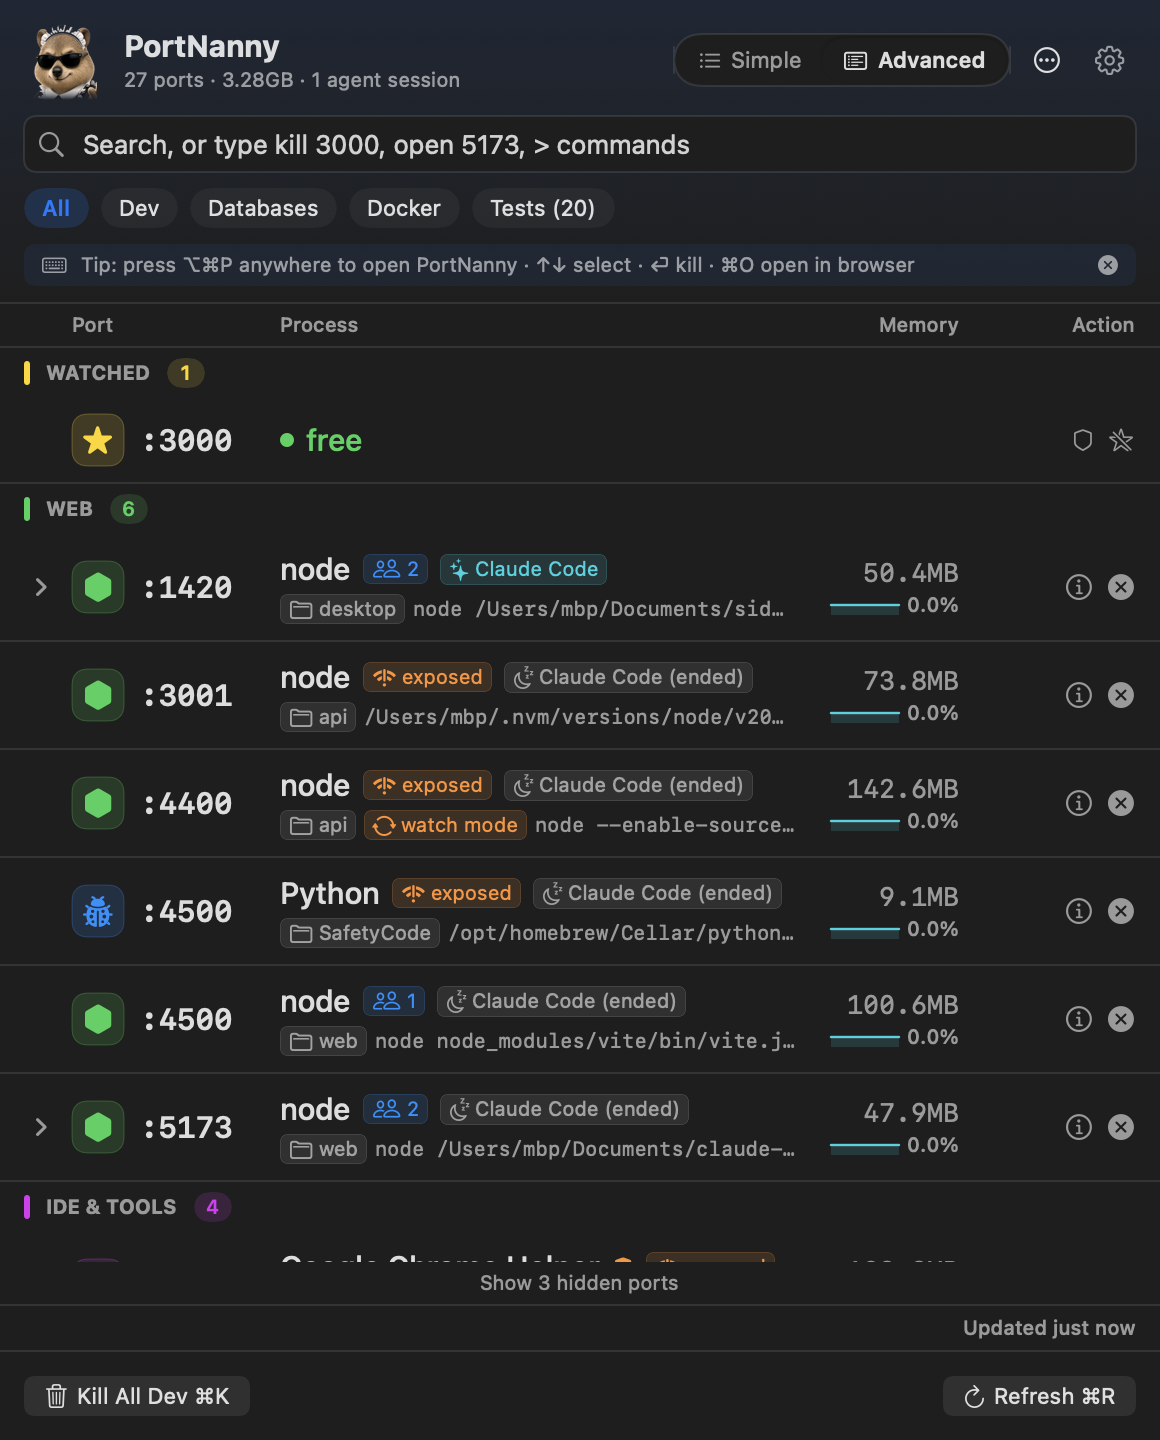
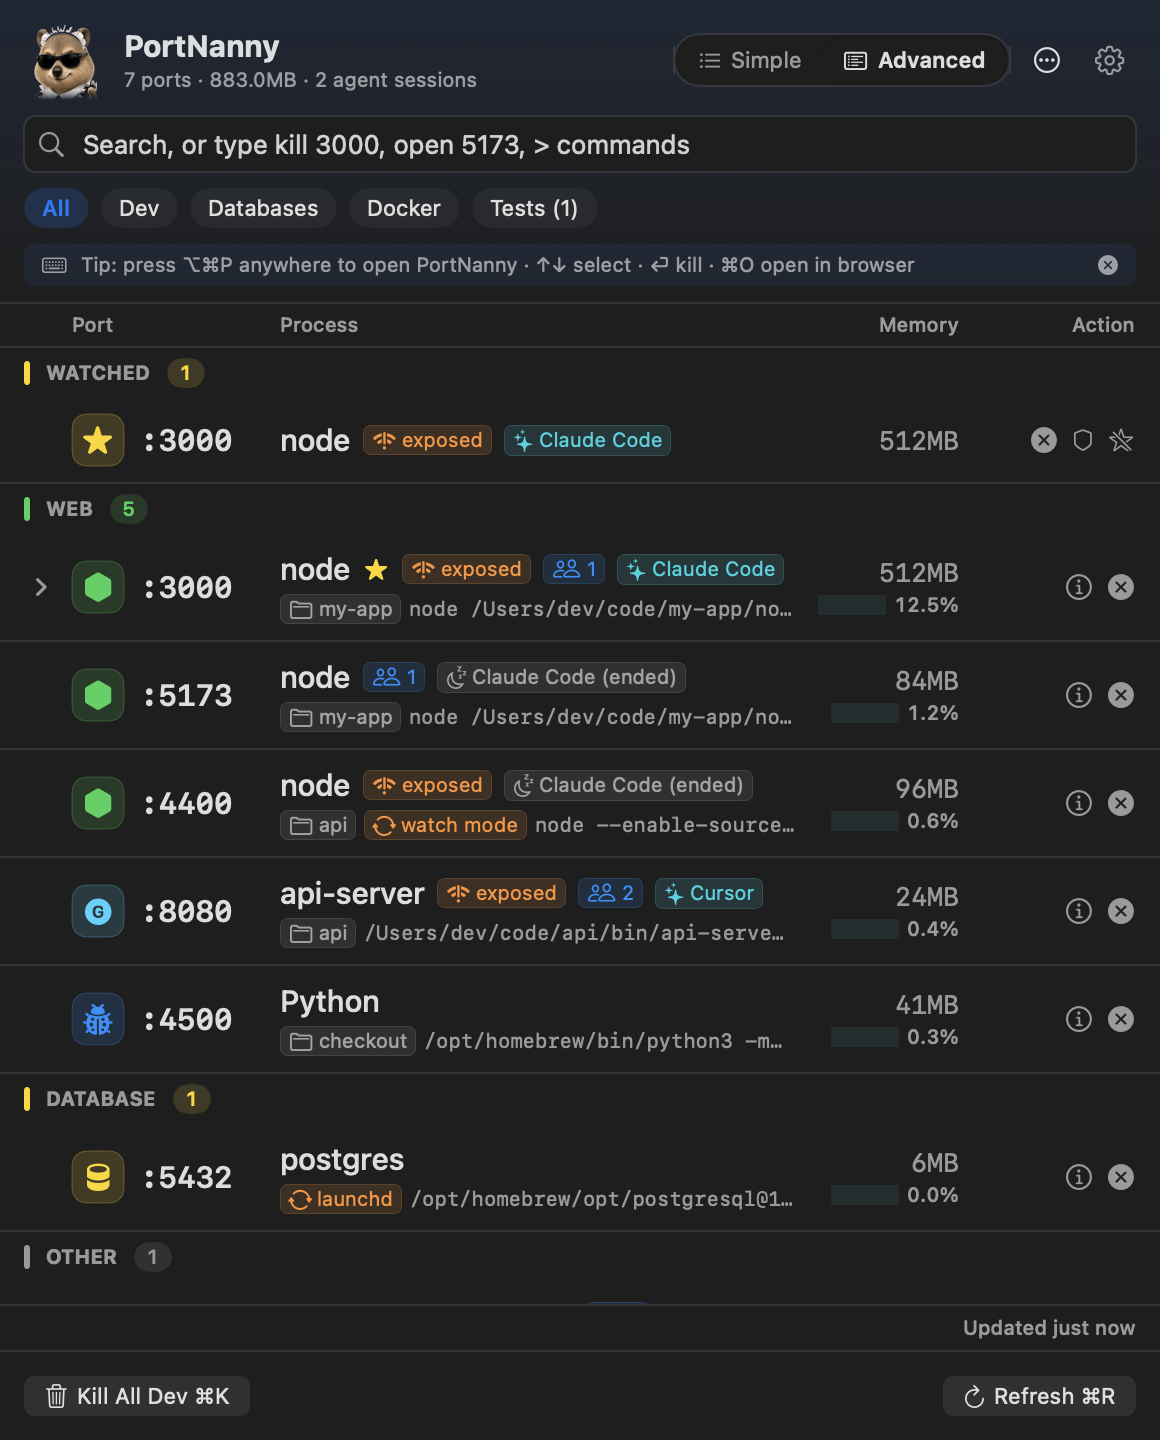
README images come from scripted data, never from the rendering Mac
The popover screenshots, the palette shot, the Workbench capture, and
the menu bar strip were rendered from the live scan of the Mac that
built them, which put its project folders, paths, user name, and the
other apps in its menu bar on a public page.

PORTNANNY_SNAPSHOT_DATA=demo now seeds the same fabricated ports the
GIF uses (DemoData, a user named dev under /Users/dev/code), a refresh
in that mode is a no-op so nothing real can slip in, the manager's
notion of the current user follows the fixture so the rows are not
hidden as system ones, and a made-up menu bar strip replaces the
photograph. A test keeps the fixtures free of the home directory and
the user name. CONTRIBUTING renders with demo data throughout.

diff --git a/PortNanny/Sources/PortNanny/App/DemoData.swift b/PortNanny/Sources/PortNanny/App/DemoData.swift
@@ -1,0 +1,80 @@
+import PortNannyCore
+import Foundation
+
+/// The ports every README image and the demo GIF show. Fabricated on
+/// purpose: a live scan would put this Mac's projects, paths, and user name
+/// into the repository. A user named "dev" under /Users/dev/code.
+#if DEBUG
+enum DemoData {
+    static let user = "dev"
+
+    static let test = TestProcessInfo(
+        pid: 4101, processName: "node", command: "node node_modules/.bin/vitest --watch",
+        memoryUsage: "312MB", memorySizeKB: 319_488, cpuPercent: 46, type: .vitest
+    )
+
+    private static let claudeLive = AgentOwner(name: "Claude Code", sessionPid: 4001, source: .processTree)
+    private static let claudeEnded = AgentOwner(name: "Claude Code", sessionPid: 3950, source: .processTree, sessionEnded: true)
+    private static let cursorLive = AgentOwner(name: "Cursor", sessionPid: 4002, source: .environment)
+
+    /// The reel kills :3000 halfway through, so it can be left out.
+    static func ports(includePort3000: Bool) -> [PortInfo] {
+        var ports: [PortInfo] = [
+            PortInfo(
+                port: 5173, pid: 2002, processName: "node",
+                command: "node /Users/dev/code/my-app/node_modules/.bin/vite",
+                user: user, memoryUsage: "84MB", memorySizeKB: 86_016, type: .nodejs,
+                projectName: "my-app", projectPath: "/Users/dev/code/my-app",
+                bindAddress: "127.0.0.1", cpuPercent: 1.2, age: "2h 14m", agentOwner: claudeEnded, connections: 1
+            ),
+            PortInfo(
+                port: 4400, pid: 2004, processName: "node",
+                command: "node --enable-source-maps /Users/dev/code/api/dist/server.js",
+                user: user, memoryUsage: "96MB", memorySizeKB: 98_304, type: .nodejs,
+                projectName: "api", projectPath: "/Users/dev/code/api",
+                bindAddress: "*", cpuPercent: 0.6, age: "1h 8m", agentOwner: claudeEnded,
+                managedBy: ManagedRuntime(kind: .reloader, name: "watch mode", supervisorPid: 2040, supervisorName: "nodemon")
+            ),
+            PortInfo(
+                port: 8080, pid: 2003, processName: "api-server",
+                command: "/Users/dev/code/api/bin/api-server --dev",
+                user: user, memoryUsage: "24MB", memorySizeKB: 24_576, type: .go,
+                projectName: "api", projectPath: "/Users/dev/code/api",
+                bindAddress: "*", cpuPercent: 0.4, age: "3h 2m", agentOwner: cursorLive, connections: 2
+            ),
+            PortInfo(
+                port: 4500, pid: 2006, processName: "Python",
+                command: "/opt/homebrew/bin/python3 -m uvicorn app:api --reload --port 4500",
+                user: user, memoryUsage: "41MB", memorySizeKB: 41_984, type: .python,
+                projectName: "checkout", projectPath: "/Users/dev/code/checkout",
+                bindAddress: "127.0.0.1", cpuPercent: 0.3, age: "52m"
+            ),
+            PortInfo(
+                port: 5432, pid: 903, processName: "postgres",
+                command: "/opt/homebrew/opt/postgresql@16/bin/postgres -D /opt/homebrew/var/postgresql@16",
+                user: user, memoryUsage: "6MB", memorySizeKB: 6_144, type: .database,
+                bindAddress: "127.0.0.1", cpuPercent: 0.0, age: "2d 5h",
+                managedBy: ManagedRuntime(kind: .launchd, name: "homebrew.mxcl.postgresql@16")
+            ),
+            PortInfo(
+                port: 6379, pid: 2005, processName: "com.docker.backend",
+                command: "/Applications/Docker.app/Contents/MacOS/com.docker.backend",
+                user: user, memoryUsage: "120MB", memorySizeKB: 122_880, type: .docker,
+                containerName: "redis-dev", bindAddress: "127.0.0.1", cpuPercent: 0.8, age: "1d 3h", connections: 3,
+                managedBy: ManagedRuntime(kind: .docker, name: "redis-dev")
+            ),
+        ]
+        if includePort3000 {
+            ports.insert(PortInfo(
+                port: 3000, pid: 2001, processName: "node",
+                command: "node /Users/dev/code/my-app/node_modules/.bin/next dev",
+                user: user, memoryUsage: "512MB", memorySizeKB: 524_288, type: .nodejs,
+                projectName: "my-app", projectPath: "/Users/dev/code/my-app",
+                children: [PortInfo.ProcessInfo(pid: 2010, name: "node", command: "next-render-worker")],
+                bindAddress: "*", cpuPercent: 12.5, age: "4h 32m", agentOwner: claudeLive, connections: 1
+            ), at: 0)
+        }
+        return ports
+    }
+}
+#endif

diff --git a/PortNanny/Sources/PortNanny/App/DemoReel.swift b/PortNanny/Sources/PortNanny/App/DemoReel.swift
@@ -18,10 +18,11 @@ extension AppDelegate {
         demoDefaults.set(true, forKey: DefaultsKey.didDismissHotkeyTip)
         let manager = PortManager(defaults: demoDefaults, history: HistoryManager(defaults: demoDefaults), autoStart: false)
         manager.hasCompletedFirstScan = true // no live scan: skip the loading state
+        manager.currentUser = DemoData.user
         manager.hideSystemProcesses = true
-        manager.activeTests = [Self.demoTest]
+        manager.activeTests = [DemoData.test]
         manager.watchedPorts = [3000]
-        manager.activePorts = Self.demoPorts(includePort3000: true)
+        manager.activePorts = DemoData.ports(includePort3000: true)
         manager.clock.lastUpdated = Date()
 
         let selectedNodeId = manager.activePorts.first { $0.port == 3000 }!.id
@@ -44,7 +45,7 @@ extension AppDelegate {
         addFrame(search: "3000", selected: selectedNodeId, delay: 1.6)
 
         // 5. Kill: port gone, toast up, search shows the "free" answer state
-        manager.activePorts = Self.demoPorts(includePort3000: false)
+        manager.activePorts = DemoData.ports(includePort3000: false)
         manager.toastMessage = "Killed :3000"
         addFrame(search: "3000", delay: 2.0)
 
@@ -93,57 +94,6 @@ extension AppDelegate {
             CGImageDestinationAddImage(destination, cgImage, frameProperties)
         }
         CGImageDestinationFinalize(destination)
-    }
-
-    // MARK: - Demo data
-
-    private static let demoTest = TestProcessInfo(
-        pid: 4101, processName: "node", command: "node node_modules/.bin/vitest --watch",
-        memoryUsage: "312MB", memorySizeKB: 319_488, cpuPercent: 46, type: .vitest
-    )
-
-    private static func demoPorts(includePort3000: Bool) -> [PortInfo] {
-        var ports: [PortInfo] = [
-            PortInfo(
-                port: 5173, pid: 2002, processName: "node",
-                command: "node /Users/dev/projects/my-app/node_modules/.bin/vite",
-                user: NSUserName(), memoryUsage: "84MB", memorySizeKB: 86_016, type: .nodejs,
-                projectName: "my-app", projectPath: "/Users/dev/projects/my-app",
-                bindAddress: "127.0.0.1", cpuPercent: 1.2, age: "2h 14m"
-            ),
-            PortInfo(
-                port: 8080, pid: 2003, processName: "api-server",
-                command: "/Users/dev/projects/api/bin/api-server --dev",
-                user: NSUserName(), memoryUsage: "24MB", memorySizeKB: 24_576, type: .go,
-                projectName: "api", projectPath: "/Users/dev/projects/api",
-                bindAddress: "*", cpuPercent: 0.4, age: "3h 2m"
-            ),
-            PortInfo(
-                port: 5432, pid: 903, processName: "postgres",
-                command: "/opt/homebrew/opt/postgresql@16/bin/postgres -D /opt/homebrew/var/postgresql@16",
-                user: NSUserName(), memoryUsage: "6MB", memorySizeKB: 6_144, type: .database,
-                bindAddress: "127.0.0.1", cpuPercent: 0.0, age: "2d 5h"
-            ),
-            PortInfo(
-                port: 6379, pid: 2005, processName: "com.docker.backend",
-                command: "/Applications/Docker.app/Contents/MacOS/com.docker.backend",
-                user: NSUserName(), memoryUsage: "120MB", memorySizeKB: 122_880, type: .docker,
-                containerName: "redis-dev", bindAddress: "127.0.0.1", cpuPercent: 0.8, age: "1d 3h"
-            ),
-        ]
-
-        if includePort3000 {
-            ports.insert(PortInfo(
-                port: 3000, pid: 2001, processName: "node",
-                command: "node /Users/dev/projects/my-app/node_modules/.bin/next dev",
-                user: NSUserName(), memoryUsage: "512MB", memorySizeKB: 524_288, type: .nodejs,
-                projectName: "my-app", projectPath: "/Users/dev/projects/my-app",
-                children: [PortInfo.ProcessInfo(pid: 2010, name: "node", command: "next-render-worker")],
-                bindAddress: "*", cpuPercent: 12.5, age: "4h 32m"
-            ), at: 0)
-        }
-
-        return ports
     }
 }
 #endif

diff --git a/PortNanny/Sources/PortNanny/App/AppDelegate+DevHooks.swift b/PortNanny/Sources/PortNanny/App/AppDelegate+DevHooks.swift
@@ -19,9 +19,19 @@ extension AppDelegate {
 
         if let snapshotPath = env["PORTNANNY_SNAPSHOT"] {
             let viewName = env["PORTNANNY_SNAPSHOT_VIEW"] ?? "main"
-            // Render what an open popover shows: full scans, not the light
-            // hidden-state ones.
-            portManager.setUIVisible(true)
+            if portManager.usesDemoData {
+                // PORTNANNY_SNAPSHOT_DATA=demo: the scripted ports instead of
+                // this Mac's, so a README image never shows a real project.
+                portManager.hasCompletedFirstScan = true
+                portManager.currentUser = DemoData.user
+                portManager.activeTests = [DemoData.test]
+                portManager.activePorts = DemoData.ports(includePort3000: true)
+                portManager.clock.lastUpdated = Date()
+            } else {
+                // Render what an open popover shows: full scans, not the light
+                // hidden-state ones.
+                portManager.setUIVisible(true)
+            }
             DispatchQueue.main.asyncAfter(deadline: .now() + 2.5) { [weak self] in
                 self?.writeSnapshot(of: viewName, to: snapshotPath)
                 // The live capture quits on its own once it has drawn.
@@ -107,6 +117,8 @@ extension AppDelegate {
             return
         case "avatar":
             view = NSHostingView(rootView: AvatarSheet())
+        case "menubar-strip":
+            view = NSHostingView(rootView: MenuBarStrip())
         case "menubar":
             // Both menu bar glyphs, active and idle, on a light and a dark
             // bar, at 4x and at their real size.
@@ -203,5 +215,31 @@ struct AvatarSheet: View {
         }
         .padding(24)
         .background(Color(nsColor: .windowBackgroundColor))
+    }
+}
+
+/// PORTNANNY_SNAPSHOT_VIEW=menubar-strip: a made-up menu bar around the glyph
+/// and its count, for the README. A photograph of the real bar would show
+/// whatever else is running on this Mac.
+struct MenuBarStrip: View {
+    var body: some View {
+        HStack(spacing: 14) {
+            HStack(spacing: 4) {
+                Image(nsImage: MenuBarGlyph.image(.mono, active: true))
+                    .renderingMode(.template)
+                    .resizable()
+                    .interpolation(.high)
+                    .frame(width: MenuBarGlyph.pointSize, height: MenuBarGlyph.pointSize)
+                Text("22").font(.system(size: 13, weight: .medium))
+            }
+            Image(systemName: "wifi")
+            Image(systemName: "battery.75percent")
+            Text("Mon 9:41").font(.system(size: 13))
+        }
+        .foregroundColor(.white)
+        .padding(.horizontal, 12)
+        .frame(width: 210, height: 28)
+        .background(LinearGradient(colors: [Color(red: 0.56, green: 0.33, blue: 0.64), Color(red: 0.44, green: 0.24, blue: 0.53)],
+                                   startPoint: .leading, endPoint: .trailing))
     }
 }

diff --git a/PortNanny/Sources/PortNannyCore/Services/PortManager.swift b/PortNanny/Sources/PortNannyCore/Services/PortManager.swift
@@ -63,6 +63,12 @@ public class PortManager: ObservableObject {
     public let processScanner = ProcessScanner()
     public let killer = ProcessKiller()
     public var refreshTimer: Timer?
+    /// Set by the debug render hooks: the ports come from scripted data and
+    /// a refresh must not replace them with real ones.
+    public private(set) var usesDemoData = false
+    /// Whose processes count as "mine" (the rest hide as system ones); the
+    /// demo hooks point it at their made-up user.
+    public var currentUser = NSUserName()
     private var toastWorkItem: DispatchWorkItem?
     public var shouldRestartTimerOnIntervalChange = false
 
@@ -359,12 +365,13 @@ public class PortManager: ObservableObject {
         shouldRestartTimerOnIntervalChange = true
         isRestoringPreferences = false
 
-        // In debug, the demo-GIF hook drives state manually — no live scanning.
-        var isDemoMode = false
+        // In debug, the demo hooks drive state by hand: no live scan, so a
+        // README image never shows this Mac's ports.
         #if DEBUG
-        isDemoMode = Foundation.ProcessInfo.processInfo.environment["PORTNANNY_DEMO_GIF"] != nil
+        let environment = Foundation.ProcessInfo.processInfo.environment
+        usesDemoData = environment["PORTNANNY_DEMO_GIF"] != nil || environment["PORTNANNY_SNAPSHOT_DATA"] == "demo"
         #endif
-        if !isDemoMode && autoStart {
+        if !usesDemoData && autoStart {
             startAutoRefresh()
 
             // Once a day, quietly see if a newer release exists. Deferred so

diff --git a/PortNanny/Tests/PortNannyTests/DemoDataTests.swift b/PortNanny/Tests/PortNannyTests/DemoDataTests.swift
@@ -1,0 +1,33 @@
+import XCTest
+@testable import PortNannyCore
+@testable import PortNanny
+
+/// README images come from scripted data, never from the Mac that renders them.
+final class DemoDataTests: XCTestCase {
+
+    func testTheDemoPortsCarryNothingFromThisMac() {
+        let home = NSHomeDirectory()
+        let ports = DemoData.ports(includePort3000: true)
+        XCTAssertGreaterThan(ports.count, 5, "enough rows for a screenshot")
+        for port in ports {
+            XCTAssertNotEqual(port.user, NSUserName(), "\(port.port)")
+            XCTAssertFalse(port.command.contains(home), port.command)
+            XCTAssertFalse((port.projectPath ?? "").contains(home), port.projectPath ?? "")
+        }
+        XCTAssertFalse(DemoData.test.command.contains(home))
+    }
+
+    func testDemoModeNeverScans() {
+        setenv("PORTNANNY_SNAPSHOT_DATA", "demo", 1)
+        defer { unsetenv("PORTNANNY_SNAPSHOT_DATA") }
+        let manager = PortManager.forTesting()
+        defer { manager.discardTestDefaults() }
+        XCTAssertTrue(manager.usesDemoData)
+        manager.currentUser = DemoData.user
+        manager.activePorts = DemoData.ports(includePort3000: true)
+        XCTAssertEqual(manager.hiddenPortsCount, 0, "the scripted rows belong to the demo user, not to a system account")
+        manager.refresh()
+        XCTAssertFalse(manager.isRefreshing, "a refresh in demo mode is a no-op")
+        XCTAssertEqual(manager.activePorts.count, DemoData.ports(includePort3000: true).count, "the scripted ports stay")
+    }
+}

diff --git a/PortNanny/Sources/PortNannyCore/Services/PortManager+Visibility.swift b/PortNanny/Sources/PortNannyCore/Services/PortManager+Visibility.swift
@@ -9,12 +9,10 @@ extension PortManager {
         "/System/", "/usr/libexec/", "/usr/sbin/", "/sbin/", "/Library/Apple/"
     ]
 
-    private static let currentUser = NSUserName()
-
     /// True for ports owned by other users (root, _daemons) or by binaries
     /// living in system locations.
     public func isSystemPort(_ port: PortInfo) -> Bool {
-        if port.user != Self.currentUser {
+        if port.user != currentUser {
             return true
         }
         return Self.systemPathPrefixes.contains { port.command.hasPrefix($0) }

diff --git a/PortNanny/Sources/PortNannyCore/Services/PortManager+Refresh.swift b/PortNanny/Sources/PortNannyCore/Services/PortManager+Refresh.swift
@@ -91,6 +91,7 @@ extension PortManager {
     // MARK: - Refresh
 
     public func refresh(showToast: Bool = false) {
+        if usesDemoData { return }
         if isRefreshing {
             // A press during a slow scan must not look like nothing happened.
             if showToast { self.showToast("Refreshing…") }

diff --git a/CONTRIBUTING.md b/CONTRIBUTING.md
@@ -81,7 +81,8 @@ screen-recording permission needed. CI uses the first one as a smoke test.
 | Env var | Effect |
 |---|---|
 | `PORTNANNY_SNAPSHOT=/path.png` | Render a view offscreen to PNG, then quit |
-| `PORTNANNY_SNAPSHOT_VIEW=main\|bulkkill\|protected\|detail\|settings\|workbench\|workbench-live\|tour` | Which view to render (default `main`); `workbench-live` opens the real window for a moment so the sidebar material draws |
+| `PORTNANNY_SNAPSHOT_VIEW=main\|bulkkill\|protected\|detail\|settings\|workbench\|workbench-live\|tour\|avatar\|menubar\|menubar-strip` | Which view to render (default `main`); `workbench-live` opens the real window for a moment so the sidebar material draws; `menubar-strip` is a made-up menu bar around the glyph |
+| `PORTNANNY_SNAPSHOT_DATA=demo` | Render the scripted demo ports instead of this Mac's. Every README image uses it: a live scan shows your projects, paths, and user name |
 | `PORTNANNY_SNAPSHOT_SEARCH="kill 3000"` | Seed the popover's search field, so the palette bar renders |
 | `PORTNANNY_SNAPSHOT_SECTION=ports\|projects\|agents\|watchlist\|history` | Which Workbench view to render |
 | `PORTNANNY_SNAPSHOT_SELECT=3000` | Select that port in the Workbench, so the inspector renders |
@@ -97,15 +98,19 @@ screen-recording permission needed. CI uses the first one as a smoke test.
 sleeps forever; the scenario tests use it as a stand-in for an agent's dev
 server, with whatever environment the scenario needs.
 
-Regenerate the README assets:
+Regenerate the README assets. Always with `PORTNANNY_SNAPSHOT_DATA=demo`
+(the scripted ports in DemoData.swift): a live scan would put your project
+folders, paths, and user name into the repository, and the images are public.
 
 ```bash
 # main-view screenshot
-PORTNANNY_DEFAULTS_SUITE=com.mukes555.PortNanny.readme PORTNANNY_MASCOT_DIR=assets/mascot PORTNANNY_SNAPSHOT=../assets/screenshot-dark.png PORTNANNY_SNAPSHOT_APPEARANCE=dark PORTNANNY_SNAPSHOT_DENSITY=advanced PORTNANNY_SNAPSHOT_WATCH=3000 .build/debug/PortNanny
+PORTNANNY_SNAPSHOT_DATA=demo PORTNANNY_DEFAULTS_SUITE=com.mukes555.PortNanny.readme PORTNANNY_MASCOT_DIR=assets/mascot PORTNANNY_SNAPSHOT=../assets/screenshot-dark.png PORTNANNY_SNAPSHOT_APPEARANCE=dark PORTNANNY_SNAPSHOT_DENSITY=advanced PORTNANNY_SNAPSHOT_WATCH=3000 .build/debug/PortNanny
 # (the same with APPEARANCE=light for screenshot-light.png; PORTNANNY_SNAPSHOT_SEARCH="kill 4400" for palette.png)
 # the Workbench: a real window, photographed (needs Screen Recording permission
 # for the debug binary; the offscreen render leaves the sidebar column blank)
-PORTNANNY_DEFAULTS_SUITE=com.mukes555.PortNanny.readme PORTNANNY_MASCOT_DIR=assets/mascot PORTNANNY_SNAPSHOT=../assets/workbench.png PORTNANNY_SNAPSHOT_VIEW=workbench-live PORTNANNY_SNAPSHOT_SELECT=3000 .build/debug/PortNanny
+PORTNANNY_SNAPSHOT_DATA=demo PORTNANNY_DEFAULTS_SUITE=com.mukes555.PortNanny.readme PORTNANNY_MASCOT_DIR=assets/mascot PORTNANNY_SNAPSHOT=../assets/workbench.png PORTNANNY_SNAPSHOT_VIEW=workbench-live PORTNANNY_SNAPSHOT_SELECT=3000 .build/debug/PortNanny
+# the menu bar strip (made up, so no other app's icon ends up in the README)
+PORTNANNY_SNAPSHOT_DATA=demo PORTNANNY_DEFAULTS_SUITE=com.mukes555.PortNanny.readme PORTNANNY_MASCOT_DIR=assets/mascot PORTNANNY_SNAPSHOT=../assets/menubar.png PORTNANNY_SNAPSHOT_VIEW=menubar-strip .build/debug/PortNanny
 # animated demo
 PORTNANNY_DEFAULTS_SUITE=com.mukes555.PortNanny.readme PORTNANNY_MASCOT_DIR=assets/mascot PORTNANNY_DEMO_GIF=../assets/demo.gif .build/debug/PortNanny
 ```

diff --git a/CHANGELOG.md b/CHANGELOG.md
@@ -17,6 +17,15 @@ release, rename it to the version and date.
   to the chin with room on both sides, so the face is whole and centred
   instead of ending at the mouth. The menu bar keeps its round glyph.
 
+### Fixed
+- **README images are scripted.** The popover screenshots, the palette
+  shot, the Workbench capture, and the menu bar strip were rendered from
+  the live scan of the Mac that built them, which put its project folders,
+  paths, and user name on the page. Every image now comes from the same
+  fabricated ports as the demo GIF (`PORTNANNY_SNAPSHOT_DATA=demo`), a
+  refresh in that mode is a no-op, and a test keeps the fixtures free of
+  anything from the rendering machine.
+
 <!-- next -->
 
 ## 2.1.0 (2026-09-07)
